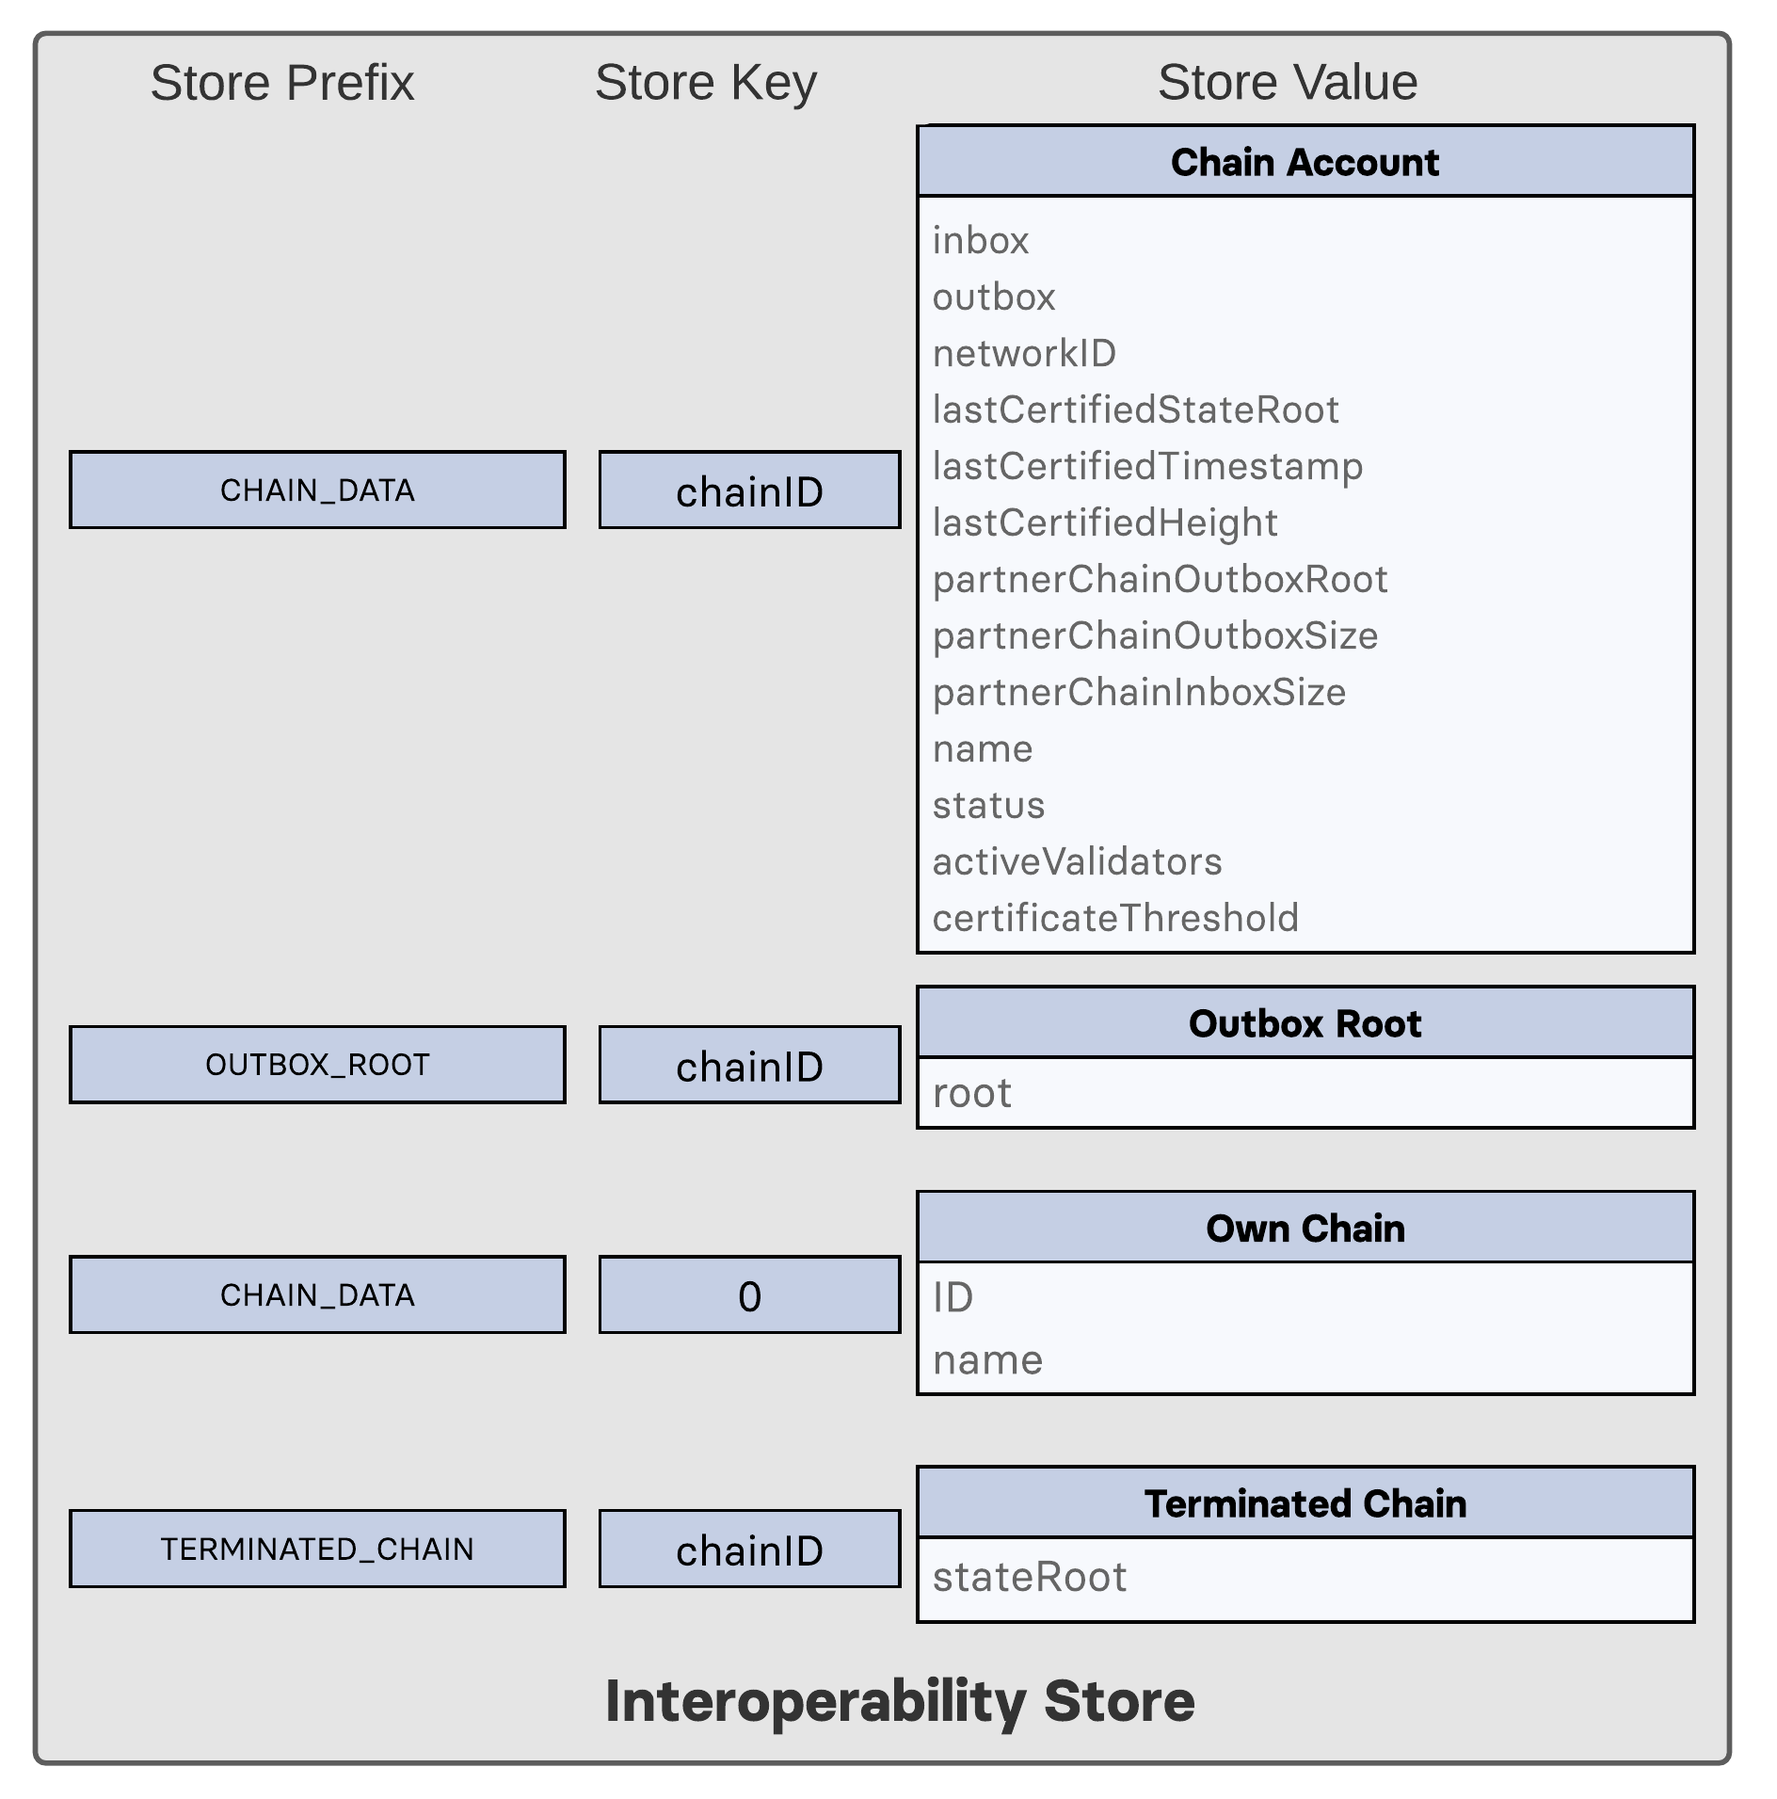
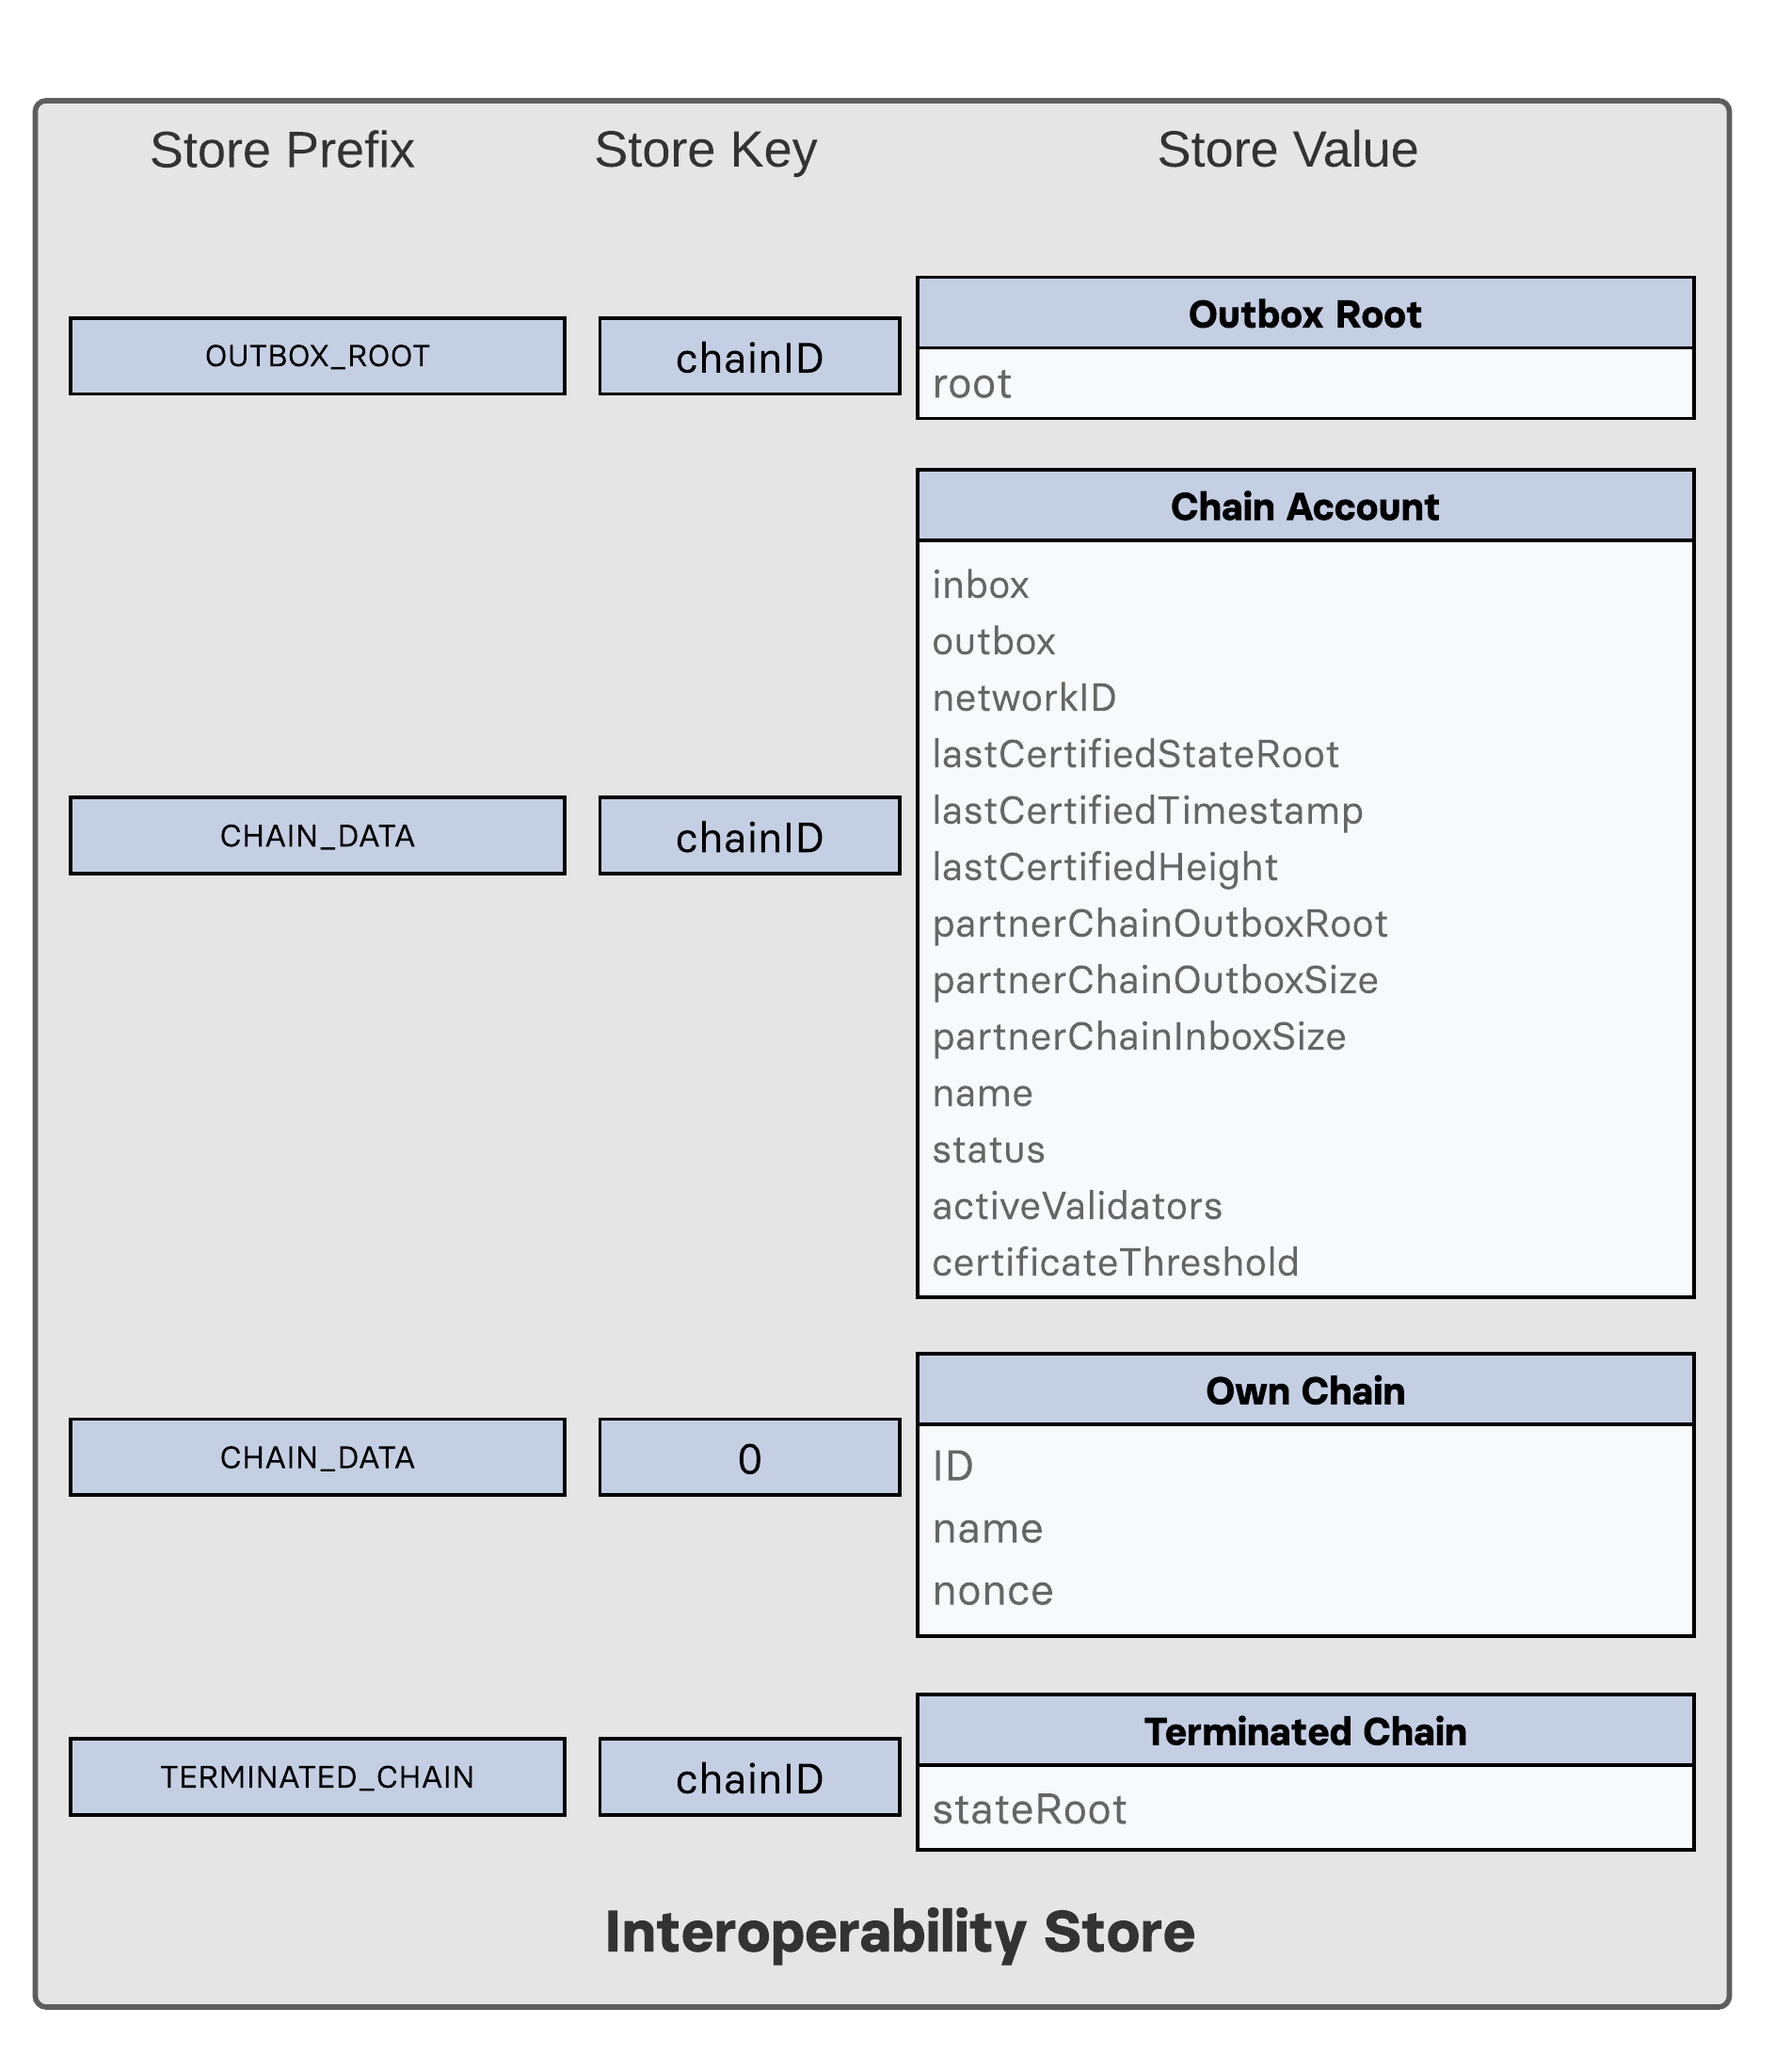
new store image

Changed region(s): [[0.0, 0.0, 1.0, 0.988]]

diff --git a/proposals/lip-properties-serialization-and-initial-values-of-the-interoperability-module.md b/proposals/lip-properties-serialization-and-initial-values-of-the-interoperability-module.md
@@ -111,7 +111,7 @@ Each chain also includes an account storing the chain name and ID in the ecosyst
 
 <img src="lip-introduce-interoperability-module/store.png" width="80%">
 
-_Figure 2: A summary of the Interoperability module store. The Interoperability module defines 4 stores: the account store for partner chain accounts and the own chain account, the outbox store for outbox roots, and the terminated chains to allow for recovery commands. The name and network ID stores, keeping track of the names and network IDs of registered sidechains, are present only on mainchain._
+_Figure 2: A summary of the Interoperability module store. The Interoperability module defines 4 stores: the outbox store for outbox roots, the account store for partner chain accounts and the own chain account, and the terminated chains to allow for recovery commands. The name and network ID stores, keeping track of the names and network IDs of registered sidechains, are present only on mainchain._
 
 
 ### Message Forwarding and the Role of the Lisk Mainchain
